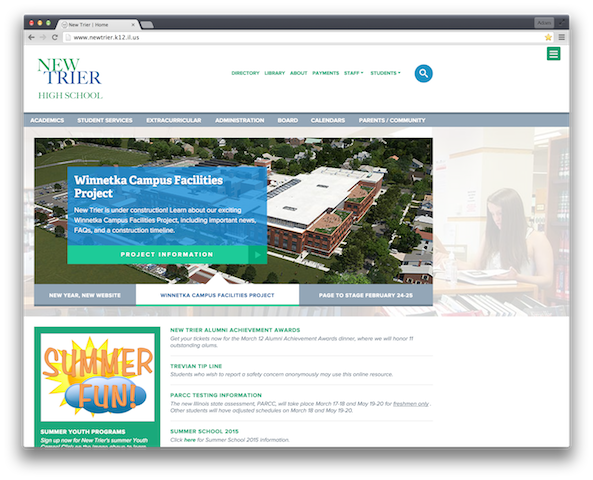
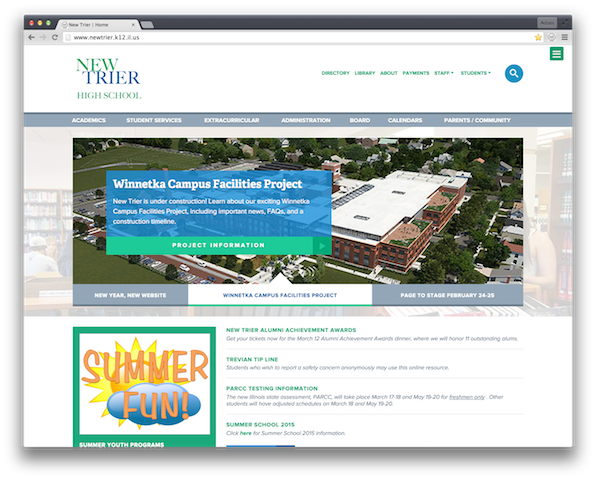
make site adjust for lack of sidebar

diff --git a/src/ntns.js b/src/ntns.js
@@ -19,10 +19,12 @@ function toggle_sidebar(){
     if (!hidden){
         $('#right-menu').css("display", "none");
         $('.primary-content').css({"float" : "none", "width": "auto"});
+        $('.primary-content .section').attr('style', 'padding-right: 0 !important');            
         hidden = true;
     } else{
         $('#right-menu').css("display", "block");
-        // This is a bug, as toggling the sidebar will not function correctly during "responsiveness".
+        $('.primary-content .section').attr('style', 'padding-right: 300px !important');
+        // There is a bug, as toggling the sidebar will not function correctly during "responsiveness".
         hidden = false;
     }
 }
